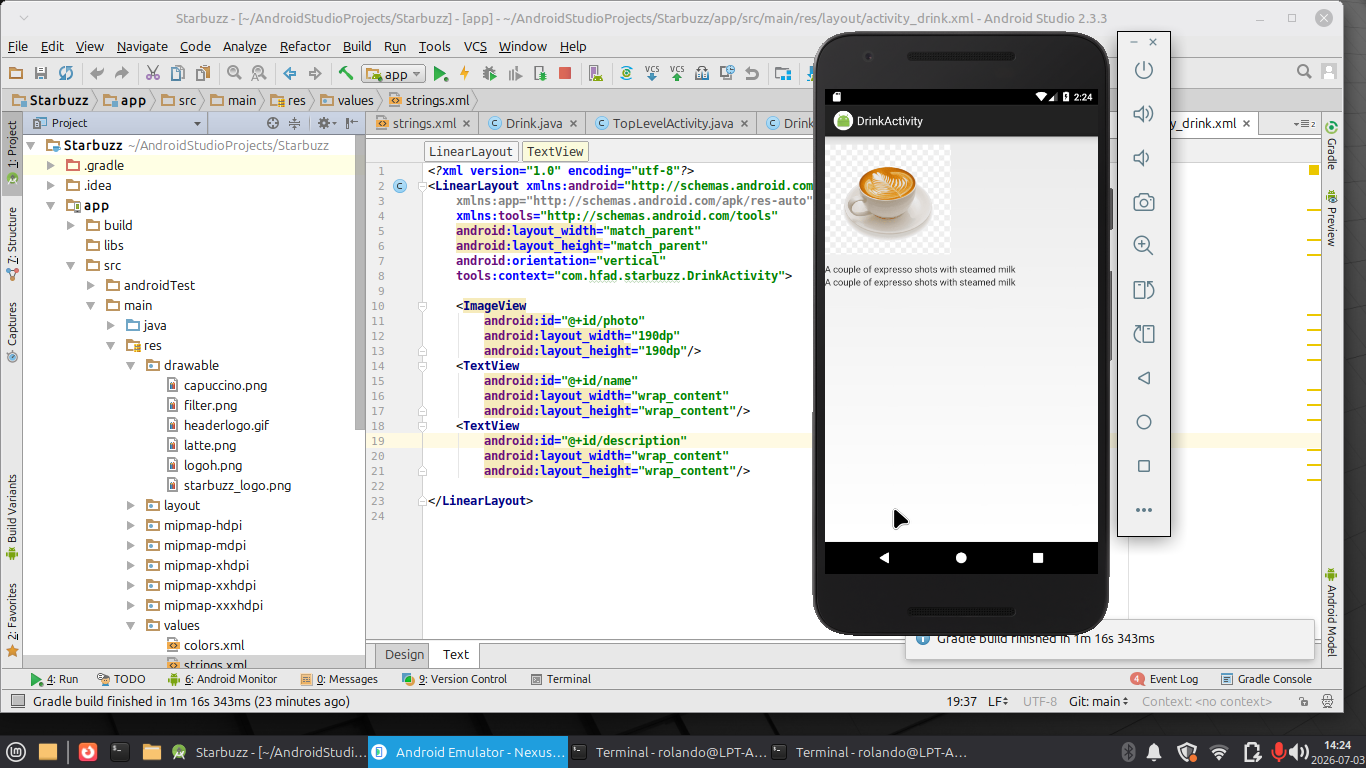
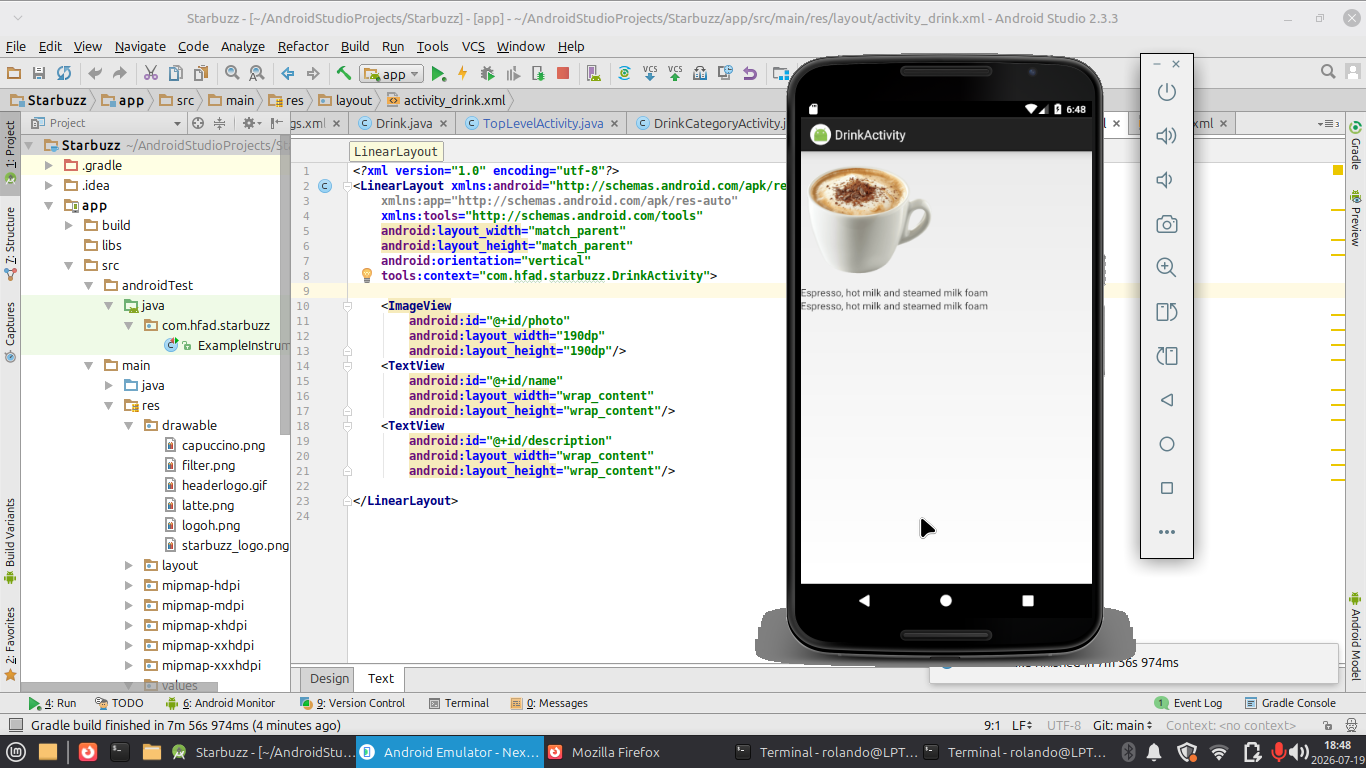
and Im still havent found what im looking for

diff --git a/app/src/androidTest/java/com/hfad/starbuzz/StarbuzzDatabaseHelper.java b/app/src/androidTest/java/com/hfad/starbuzz/StarbuzzDatabaseHelper.java
@@ -1,0 +1,41 @@
+package com.hfad.starbuzz;
+
+import android.database.sqlite.SQLiteOpenHelper;
+import android.content.Context;
+import android.database.sqlite.SQLiteDatabase;
+/**
+ *            |    |    |
+ *           )_)  )_)  )_)
+ *          )___))___))___)\
+ *         )____)____)_____)\\
+ *      _____|____|____|____\\\__
+ * -------\                   /---------
+ *     ^^^^^ ^^^^^^^^^^^^^^^^^^^^^
+ *     ^^^^      ^^^^     ^^^    ^^
+ *           ^^^^      ^^^
+ * Sir Henry Morgan is de Lord of Talamanca
+ * tossing with brave men having
+ * celebrating the kings will
+ *
+ *
+ *
+ * @author Rolando <[email redacted]>
+ */
+
+public class StarbuzzDatabaseHelper extends SQLiteOpenHelper {
+
+    StarbuzzDatabaseHelper(Context context){
+
+    }
+
+    @Override
+    public void onCreate(SQLiteDatabase db){
+
+    }
+
+    @Override
+    public void onUpgrade(SQLiteDatabase db,int oldVersion, int newVersion){
+
+    }
+
+}

diff --git a/app/src/main/java/com/hfad/starbuzz/TopLevelActivity.java b/app/src/main/java/com/hfad/starbuzz/TopLevelActivity.java
@@ -19,6 +19,7 @@ import android.widget.ListView;
  *     ^^^^      ^^^^     ^^^    ^^
  *           ^^^^      ^^^
  * Sir Henry Morgan is de Lord of Talamanca
+ * Juan Valdez murio asesinado por Nazis del Cartel de Medellin
  *
  *
  *